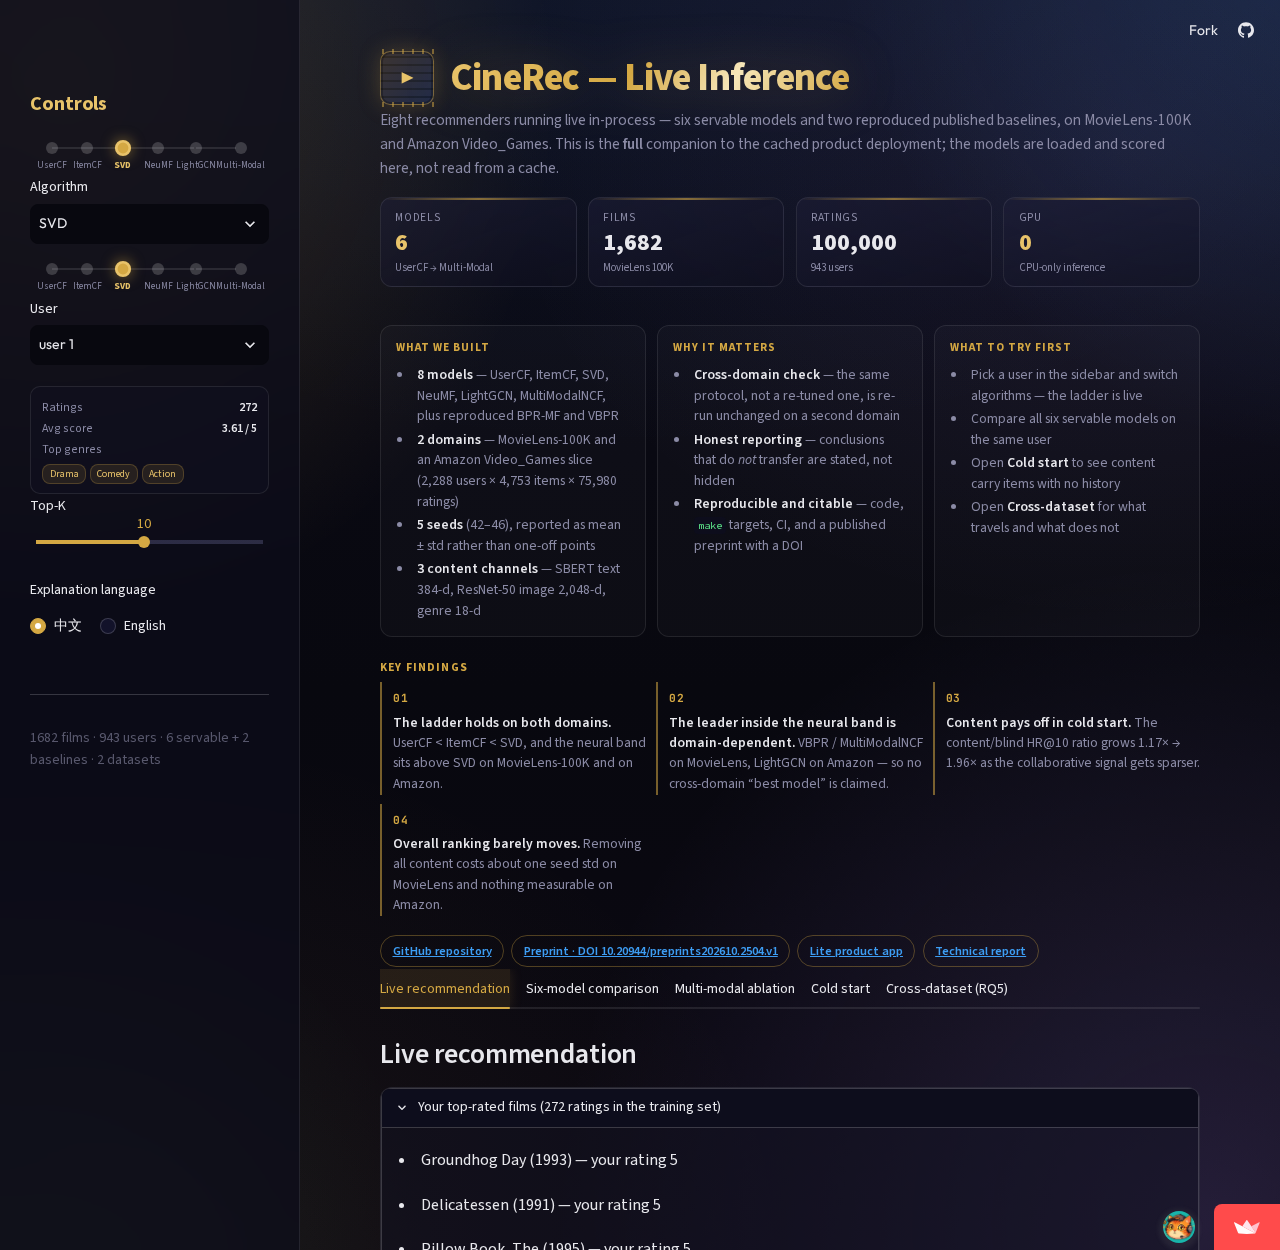
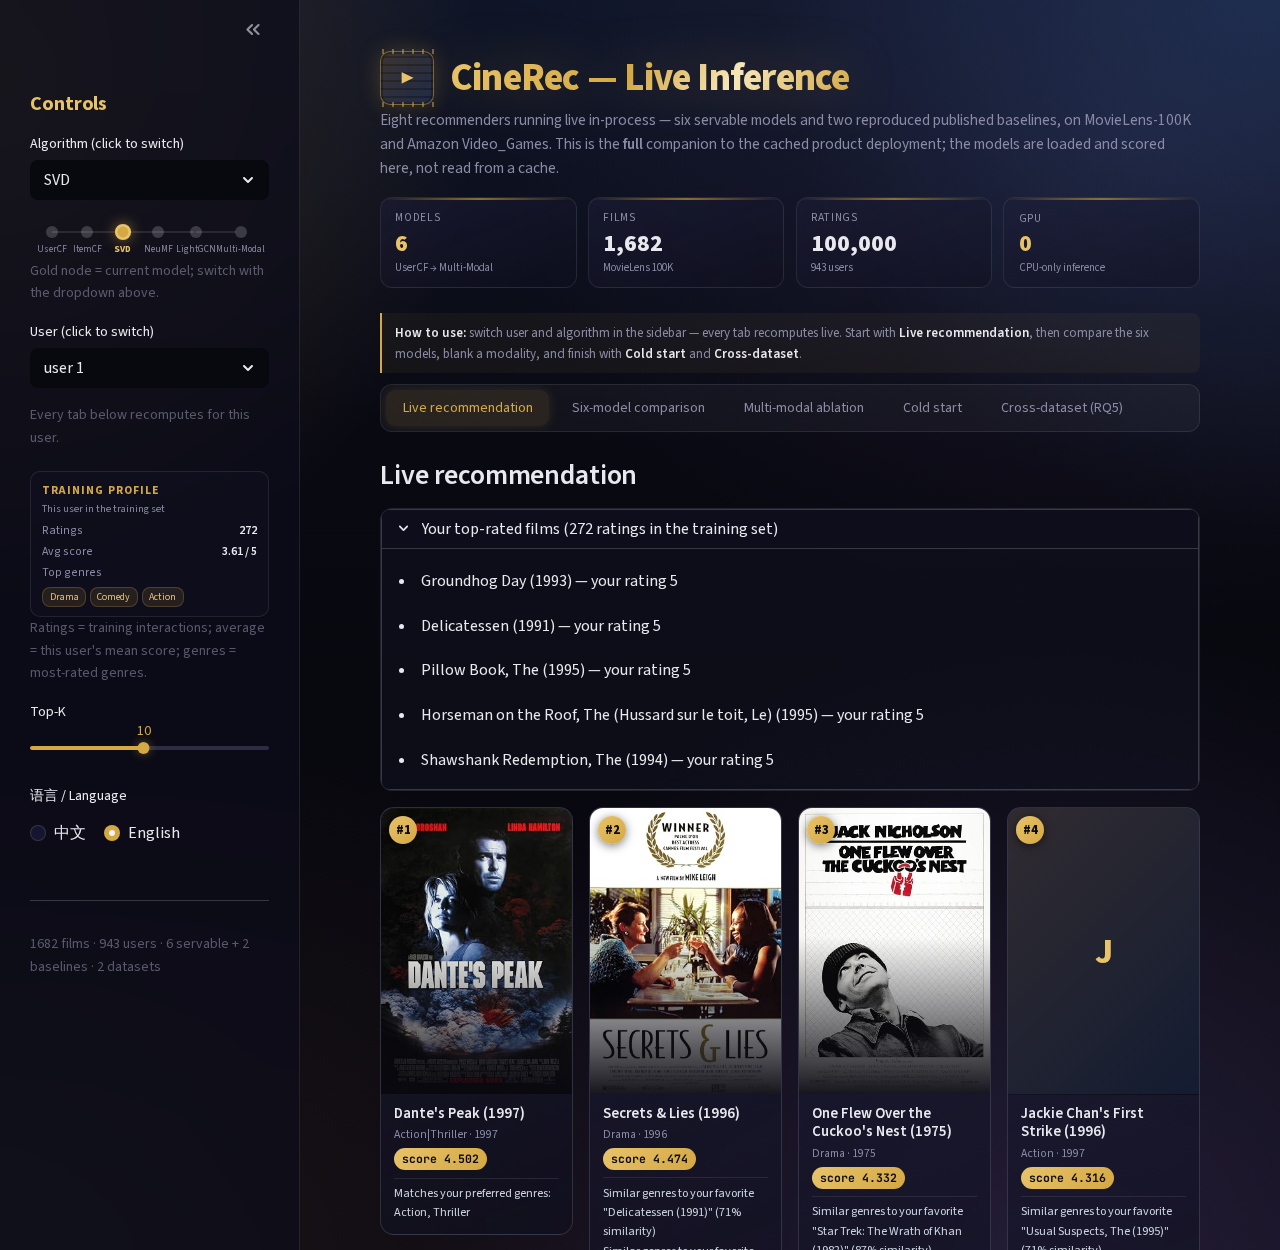
docs: refresh the Streamlit screenshots for the new layout
The old shots showed the duplicate ladder and the overview above the demo.
Recapture both in English: one selection-tracking ladder, the new sidebar
labels, the usage hint, and the tabs above the project overview. Update the
README captions to match the new order.

diff --git a/README.md b/README.md
@@ -130,15 +130,15 @@ either runtime mode from the same image.
 > Cold-start is covered separately with its own measured chart in the **Measured Results** section below.
 
 ### Streamlit Companion (Full Mode)
-> Live inference companion with a study overview (build scope, key findings, outbound links), a film-strip logo, KPI strip, CSS bar charts, a Jaccard overlap heatmap, an algorithm ladder, and a user profile mini-card.
+> Live inference companion with a film-strip logo, KPI strip, live recommendations first, the study overview below the tabs (build scope, key findings, outbound links), CSS bar charts, a Jaccard overlap heatmap, an algorithm ladder, and a user profile mini-card.
 
 <table>
 <tr>
-<td><img src="screenshots/streamlit_live.png" width="400" alt="Streamlit overview and live recommendation"></td>
+<td><img src="screenshots/streamlit_live.png" width="400" alt="Streamlit live recommendation and sidebar controls"></td>
 <td><img src="screenshots/streamlit_comparison.png" width="400" alt="Streamlit Six-Model Comparison"></td>
 </tr>
 <tr>
-<td align="center"><sub>Project overview (build scope, key findings, links) + live recommendation</sub></td>
+<td align="center"><sub>Live recommendation + sidebar controls (overview sits below the tabs)</sub></td>
 <td align="center"><sub>Six-model comparison + heatmap</sub></td>
 </tr>
 </table>

diff --git a/README.zh-CN.md b/README.zh-CN.md
@@ -123,15 +123,15 @@ CineRec 是一个全栈电影推荐系统，实现了 6 个复杂度递进的模
 > 冷启动研究在下方 **实测图表** 区有单独的实测图。
 
 ### Streamlit 伴生应用（Full 模式）
-> 实时推理伴生应用：项目总览（建设范围、关键发现、外链）、胶片 logo、KPI 条、CSS 柱状图、Jaccard 重叠热力图、算法阶梯与用户画像小卡。
+> 实时推理伴生应用：胶片 logo、KPI 条、先展示实时推荐，Tab 下方是项目总览（建设范围、关键发现、外链），另有 CSS 柱状图、Jaccard 重叠热力图、算法阶梯与用户画像小卡。
 
 <table>
 <tr>
-<td><img src="screenshots/streamlit_live.png" width="400" alt="Streamlit 项目总览与实时推荐"></td>
+<td><img src="screenshots/streamlit_live.png" width="400" alt="Streamlit 实时推荐与侧栏控制"></td>
 <td><img src="screenshots/streamlit_comparison.png" width="400" alt="Streamlit 六模型对比"></td>
 </tr>
 <tr>
-<td align="center"><sub>项目总览（建设范围、关键发现、外链）+ 实时推荐</sub></td>
+<td align="center"><sub>实时推荐 + 侧栏控制（项目总览在 Tab 下方）</sub></td>
 <td align="center"><sub>六模型对比 + 热力图</sub></td>
 </tr>
 </table>
